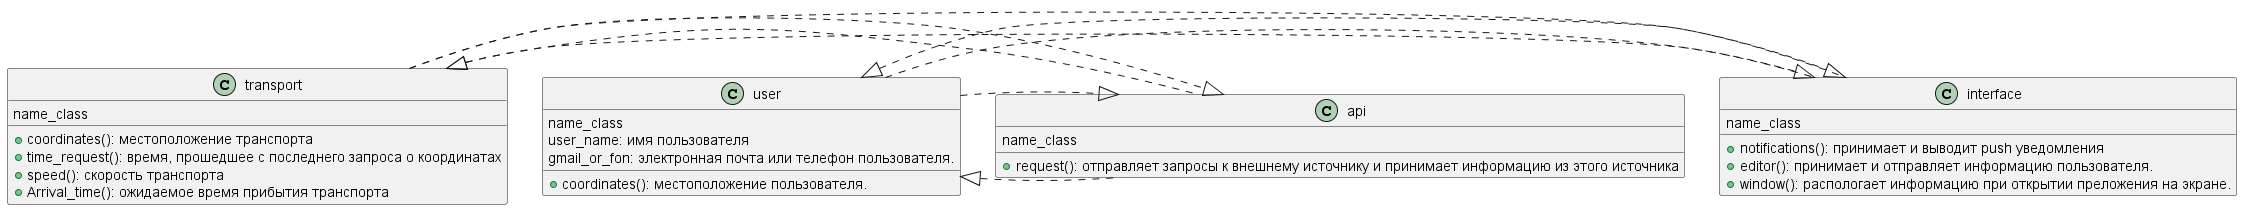
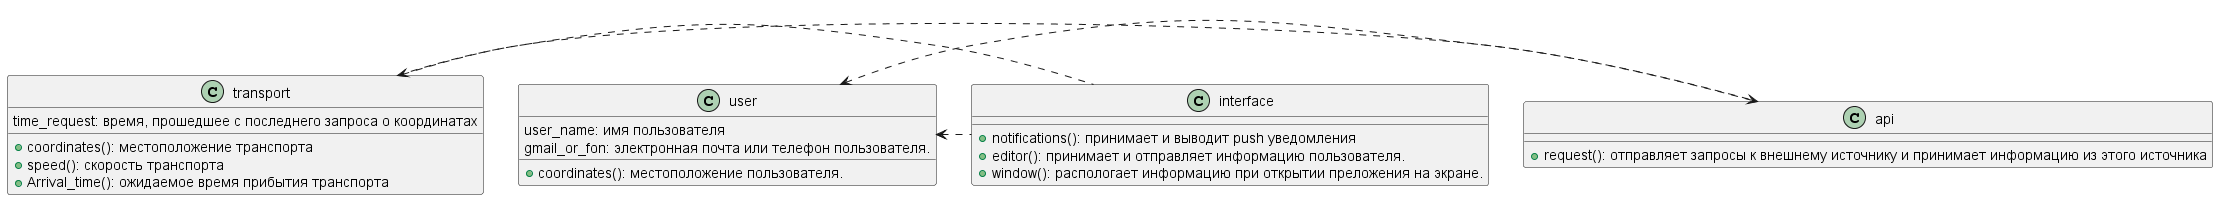
поправил требования, добавиль диаграмму пользовательских сценариев, переделал остальные диаграммы.

diff --git a/реализация прототипа системы детализации информации о динамически перемещающихся объектах для людей с нарушением зрения/требования к проекту.md b/реализация прототипа системы детализации информации о динамически перемещающихся объектах для людей с нарушением зрения/требования к проекту.md
@@ -8,11 +8,12 @@
 6. Отправка push уведомлений о происходящих событиях, которые выберет пользователь.
 
 ### Требования к пользовательскому интерфейсу:
-1.	Чёткость- в названии каждого элемента должно быть кратко отображено что он делает.
-под разные группы пользователей, например, слабовидящие.
+доступность согласно ГОСТ Р 52872-2019 Интернет-ресурсы и другая информация, представленная в электронно-цифровой форме. Приложения для стационарных и мобильных устройств,
+иные пользовательские интерфейсы. Требования доступности для людей с инвалидностью и других лиц с ограничениями жизнедеятельности (с Поправкой)
 
 ### Программный интерфейс:
-1. Доступность для программ экранного доступа.
+доступность для программ экранного доступа согласно ГОСТ Р 52872-2019 Интернет-ресурсы и другая информация, представленная в электронно-цифровой форме. Приложения для стационарных и мобильных устройств,
+иные пользовательские интерфейсы. Требования доступности для людей с инвалидностью и других лиц с ограничениями жизнедеятельности (с Поправкой)
 
 ## Технические требования.
 1.	Совместимость с операционной системой Android.
